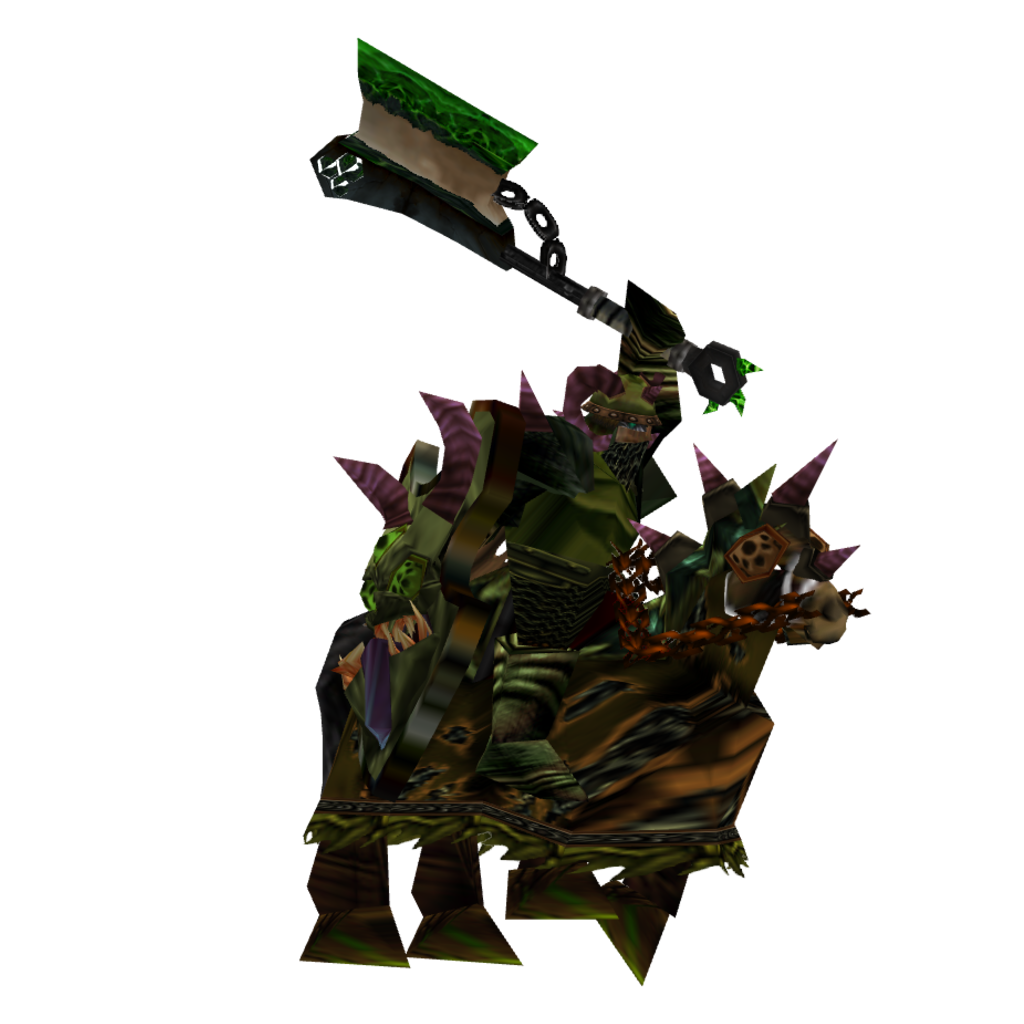
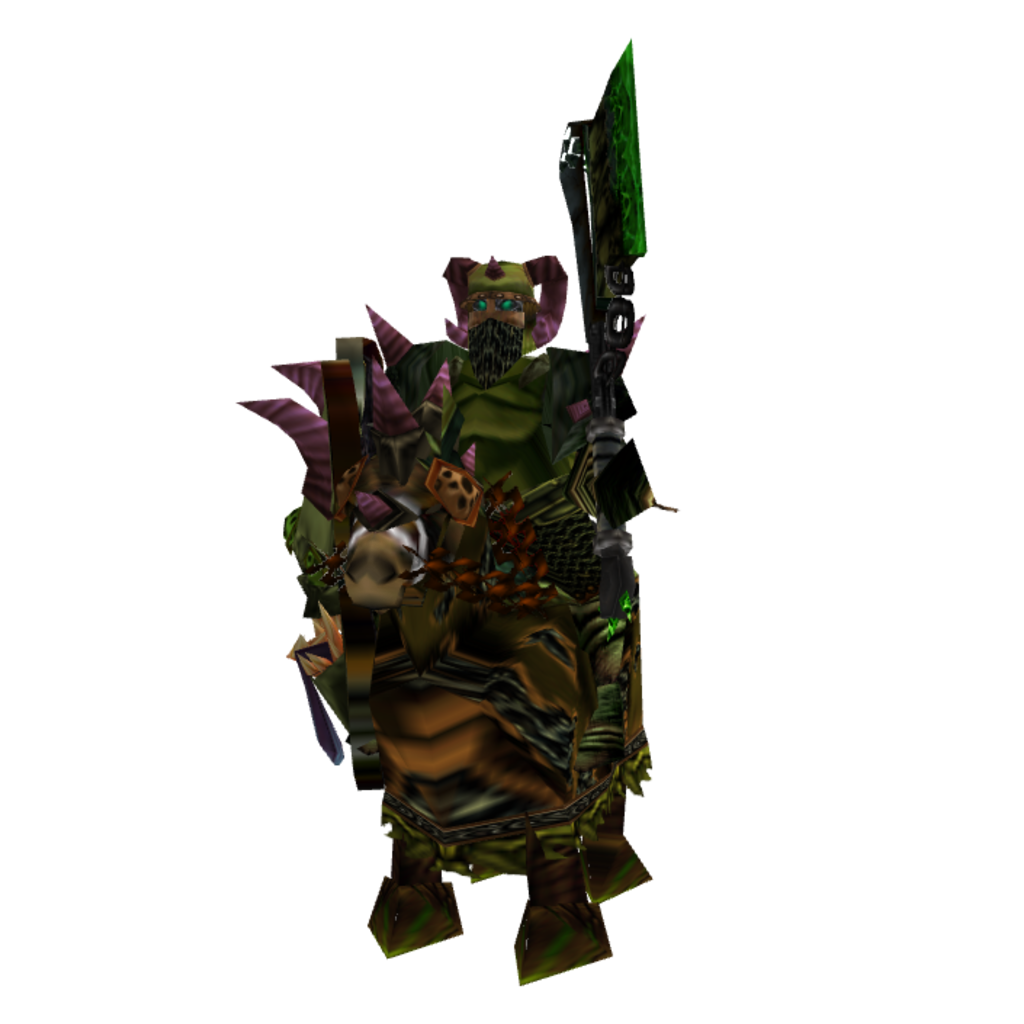
Publish Nurgle Champion with corrected axe image; leave Chaos group unchanged

Changed region(s): [[0.2188, 0.0312, 0.8438, 0.9688]]

diff --git a/model/nurgle-champion/index.html b/model/nurgle-champion/index.html
@@ -1,5 +1,5 @@
 <!doctype html>
-<html lang="en"><head><base href="/"><meta charset="utf-8"><meta name="viewport" content="width=device-width,initial-scale=1"><title>Knight of Nurgle · Champion — LowPolyWorks</title><meta name="description" content="Preview and download the Knight of Nurgle · Champion model for Warcraft 3. Add a plague-themed Warhammer Fantasy champion to your Warriors of Chaos army."><link rel="icon" type="image/png" sizes="1254x1254" href="/ui/mdlxl-icon.png"><link rel="stylesheet" href="style.css?v=20261012-connected-chains"><link rel="stylesheet" href="journal.css?v=20261010-posting-repair"><link rel="stylesheet" href="mdlxl.css?v=20261008-author-gif"><script type="importmap">{"imports":{"three":"./vendor/three.module.js","three/addons/controls/OrbitControls.js":"./vendor/OrbitControls.js"}}</script><link rel="canonical" href="https://www.lowpolyworks.com/model/nurgle-champion/">
+<html lang="en"><head><base href="/"><meta charset="utf-8"><meta name="viewport" content="width=device-width,initial-scale=1"><title>Knight of Nurgle · Champion — LowPolyWorks</title><meta name="description" content="Preview and download the Knight of Nurgle · Champion model for Warcraft 3. Add a plague-themed Warhammer Fantasy champion to your Warriors of Chaos army."><link rel="icon" type="image/png" sizes="1254x1254" href="/ui/mdlxl-icon.png"><link rel="stylesheet" href="style.css?v=20261012-chain-hover-layer"><link rel="stylesheet" href="journal.css?v=20261010-posting-repair"><link rel="stylesheet" href="mdlxl.css?v=20261008-author-gif"><script type="importmap">{"imports":{"three":"./vendor/three.module.js","three/addons/controls/OrbitControls.js":"./vendor/OrbitControls.js"}}</script><link rel="canonical" href="https://www.lowpolyworks.com/model/nurgle-champion/">
 <meta property="og:type" content="website">
 <meta property="og:site_name" content="LowPolyWorks">
 <meta property="og:title" content="Knight of Nurgle · Champion">
@@ -34,4 +34,4 @@
     <image href="ui/lowpolyworks-cleaned-source.png" width="1695" height="951" mask="url(#lowpolyworks-character-mask)"/>
   </g>
   <image class="lowpolyworks-lettering" href="ui/lowpolyworks-header-source.png" width="1695" height="951" mask="url(#lowpolyworks-type-mask)"/>
-</svg></a><nav aria-label="Main menu"><a class="project-brand mdlxl-brand" href="/mdlxl/" aria-label="MDLxL"><img class="mdlxl-brand-icon" src="ui/mdlxl-icon.png" alt="" width="48" height="48"><span class="mdlxl-wordmark" aria-hidden="true">MDL<span>x</span>L</span></a><a class="project-brand warhammercraft-brand" href="#project/warhammercraft" aria-label="WarhammerCraft"><span class="warhammercraft-wordmark" aria-hidden="true"><img src="ui/warhammercraft-header-source.png" alt="" width="1400" height="300"></span></a></nav></header><div class="site-shell"><aside class="side-menu side-left"><nav id="army-navigation" aria-label="Army navigation"></nav></aside><main id="app" aria-live="polite"><p class="loading">Loading…</p></main><aside class="side-menu side-right" id="catalogue-summary" aria-label="Catalogue information"></aside></div><footer><span>LOWPOLYWORKS</span><div><a href="#subscribe">Model notifications</a><a href="THIRD_PARTY_NOTICES.txt">Renderer credits</a></div></footer><script type="module" src="app.js?v=20261012-connected-chains"></script></body></html>
+</svg></a><nav aria-label="Main menu"><a class="project-brand mdlxl-brand" href="/mdlxl/" aria-label="MDLxL"><img class="mdlxl-brand-icon" src="ui/mdlxl-icon.png" alt="" width="48" height="48"><span class="mdlxl-wordmark" aria-hidden="true">MDL<span>x</span>L</span></a><a class="project-brand warhammercraft-brand" href="#project/warhammercraft" aria-label="WarhammerCraft"><span class="warhammercraft-wordmark" aria-hidden="true"><img src="ui/warhammercraft-header-source.png" alt="" width="1400" height="300"></span></a></nav></header><div class="site-shell"><aside class="side-menu side-left"><nav id="army-navigation" aria-label="Army navigation"></nav></aside><main id="app" aria-live="polite"><p class="loading">Loading…</p></main><aside class="side-menu side-right" id="catalogue-summary" aria-label="Catalogue information"></aside></div><footer><span>LOWPOLYWORKS</span><div><a href="#subscribe">Model notifications</a><a href="THIRD_PARTY_NOTICES.txt">Renderer credits</a></div></footer><script type="module" src="app.js?v=20261012-nurgle-fixed-unit-card"></script></body></html>

diff --git a/index.html b/index.html
@@ -19,4 +19,4 @@
     <image href="ui/lowpolyworks-cleaned-source.png" width="1695" height="951" mask="url(#lowpolyworks-character-mask)"/>
   </g>
   <image class="lowpolyworks-lettering" href="ui/lowpolyworks-header-source.png" width="1695" height="951" mask="url(#lowpolyworks-type-mask)"/>
-</svg></a><nav aria-label="Main menu"><a class="project-brand mdlxl-brand" href="/mdlxl/" aria-label="MDLxL"><img class="mdlxl-brand-icon" src="ui/mdlxl-icon.png" alt="" width="48" height="48"><span class="mdlxl-wordmark" aria-hidden="true">MDL<span>x</span>L</span></a><a class="project-brand warhammercraft-brand" href="#project/warhammercraft" aria-label="WarhammerCraft"><span class="warhammercraft-wordmark" aria-hidden="true"><img src="ui/warhammercraft-header-source.png" alt="" width="1400" height="300"></span></a></nav></header><div class="site-shell"><aside class="side-menu side-left"><nav id="army-navigation" aria-label="Army navigation"></nav></aside><main id="app" aria-live="polite"><p class="loading">Loading…</p></main><aside class="side-menu side-right" id="catalogue-summary" aria-label="Catalogue information"></aside></div><footer><span>LOWPOLYWORKS</span><div><a href="#subscribe">Model notifications</a><a href="THIRD_PARTY_NOTICES.txt">Renderer credits</a></div></footer><script type="module" src="app.js?v=20261012-nurgle-axe-composite"></script></body></html>
+</svg></a><nav aria-label="Main menu"><a class="project-brand mdlxl-brand" href="/mdlxl/" aria-label="MDLxL"><img class="mdlxl-brand-icon" src="ui/mdlxl-icon.png" alt="" width="48" height="48"><span class="mdlxl-wordmark" aria-hidden="true">MDL<span>x</span>L</span></a><a class="project-brand warhammercraft-brand" href="#project/warhammercraft" aria-label="WarhammerCraft"><span class="warhammercraft-wordmark" aria-hidden="true"><img src="ui/warhammercraft-header-source.png" alt="" width="1400" height="300"></span></a></nav></header><div class="site-shell"><aside class="side-menu side-left"><nav id="army-navigation" aria-label="Army navigation"></nav></aside><main id="app" aria-live="polite"><p class="loading">Loading…</p></main><aside class="side-menu side-right" id="catalogue-summary" aria-label="Catalogue information"></aside></div><footer><span>LOWPOLYWORKS</span><div><a href="#subscribe">Model notifications</a><a href="THIRD_PARTY_NOTICES.txt">Renderer credits</a></div></footer><script type="module" src="app.js?v=20261012-nurgle-fixed-unit-card"></script></body></html>

diff --git a/mdlxl/index.html b/mdlxl/index.html
@@ -27,4 +27,4 @@
     <image href="ui/lowpolyworks-cleaned-source.png" width="1695" height="951" mask="url(#lowpolyworks-character-mask)"/>
   </g>
   <image class="lowpolyworks-lettering" href="ui/lowpolyworks-header-source.png" width="1695" height="951" mask="url(#lowpolyworks-type-mask)"/>
-</svg></a><nav aria-label="Main menu"><a class="project-brand mdlxl-brand" href="/mdlxl/" aria-label="MDLxL"><img class="mdlxl-brand-icon" src="ui/mdlxl-icon.png" alt="" width="48" height="48"><span class="mdlxl-wordmark" aria-hidden="true">MDL<span>x</span>L</span></a><a class="project-brand warhammercraft-brand" href="#project/warhammercraft" aria-label="WarhammerCraft"><span class="warhammercraft-wordmark" aria-hidden="true"><img src="ui/warhammercraft-header-source.png" alt="" width="1400" height="300"></span></a></nav></header><div class="site-shell"><aside class="side-menu side-left"><nav id="army-navigation" aria-label="Army navigation"></nav></aside><main id="app" aria-live="polite"><p class="loading">Loading…</p></main><aside class="side-menu side-right" id="catalogue-summary" aria-label="Catalogue information"></aside></div><footer><span>LOWPOLYWORKS</span><div><a href="#subscribe">Model notifications</a><a href="THIRD_PARTY_NOTICES.txt">Renderer credits</a></div></footer><script type="module" src="app.js?v=20261012-nurgle-axe-composite"></script></body></html>
+</svg></a><nav aria-label="Main menu"><a class="project-brand mdlxl-brand" href="/mdlxl/" aria-label="MDLxL"><img class="mdlxl-brand-icon" src="ui/mdlxl-icon.png" alt="" width="48" height="48"><span class="mdlxl-wordmark" aria-hidden="true">MDL<span>x</span>L</span></a><a class="project-brand warhammercraft-brand" href="#project/warhammercraft" aria-label="WarhammerCraft"><span class="warhammercraft-wordmark" aria-hidden="true"><img src="ui/warhammercraft-header-source.png" alt="" width="1400" height="300"></span></a></nav></header><div class="site-shell"><aside class="side-menu side-left"><nav id="army-navigation" aria-label="Army navigation"></nav></aside><main id="app" aria-live="polite"><p class="loading">Loading…</p></main><aside class="side-menu side-right" id="catalogue-summary" aria-label="Catalogue information"></aside></div><footer><span>LOWPOLYWORKS</span><div><a href="#subscribe">Model notifications</a><a href="THIRD_PARTY_NOTICES.txt">Renderer credits</a></div></footer><script type="module" src="app.js?v=20261012-nurgle-fixed-unit-card"></script></body></html>

diff --git a/model/aspiring/index.html b/model/aspiring/index.html
@@ -34,4 +34,4 @@
     <image href="ui/lowpolyworks-cleaned-source.png" width="1695" height="951" mask="url(#lowpolyworks-character-mask)"/>
   </g>
   <image class="lowpolyworks-lettering" href="ui/lowpolyworks-header-source.png" width="1695" height="951" mask="url(#lowpolyworks-type-mask)"/>
-</svg></a><nav aria-label="Main menu"><a class="project-brand mdlxl-brand" href="/mdlxl/" aria-label="MDLxL"><img class="mdlxl-brand-icon" src="ui/mdlxl-icon.png" alt="" width="48" height="48"><span class="mdlxl-wordmark" aria-hidden="true">MDL<span>x</span>L</span></a><a class="project-brand warhammercraft-brand" href="#project/warhammercraft" aria-label="WarhammerCraft"><span class="warhammercraft-wordmark" aria-hidden="true"><img src="ui/warhammercraft-header-source.png" alt="" width="1400" height="300"></span></a></nav></header><div class="site-shell"><aside class="side-menu side-left"><nav id="army-navigation" aria-label="Army navigation"></nav></aside><main id="app" aria-live="polite"><p class="loading">Loading…</p></main><aside class="side-menu side-right" id="catalogue-summary" aria-label="Catalogue information"></aside></div><footer><span>LOWPOLYWORKS</span><div><a href="#subscribe">Model notifications</a><a href="THIRD_PARTY_NOTICES.txt">Renderer credits</a></div></footer><script type="module" src="app.js?v=20261012-nurgle-axe-composite"></script></body></html>
+</svg></a><nav aria-label="Main menu"><a class="project-brand mdlxl-brand" href="/mdlxl/" aria-label="MDLxL"><img class="mdlxl-brand-icon" src="ui/mdlxl-icon.png" alt="" width="48" height="48"><span class="mdlxl-wordmark" aria-hidden="true">MDL<span>x</span>L</span></a><a class="project-brand warhammercraft-brand" href="#project/warhammercraft" aria-label="WarhammerCraft"><span class="warhammercraft-wordmark" aria-hidden="true"><img src="ui/warhammercraft-header-source.png" alt="" width="1400" height="300"></span></a></nav></header><div class="site-shell"><aside class="side-menu side-left"><nav id="army-navigation" aria-label="Army navigation"></nav></aside><main id="app" aria-live="polite"><p class="loading">Loading…</p></main><aside class="side-menu side-right" id="catalogue-summary" aria-label="Catalogue information"></aside></div><footer><span>LOWPOLYWORKS</span><div><a href="#subscribe">Model notifications</a><a href="THIRD_PARTY_NOTICES.txt">Renderer credits</a></div></footer><script type="module" src="app.js?v=20261012-nurgle-fixed-unit-card"></script></body></html>

diff --git a/model/blood-dragon/index.html b/model/blood-dragon/index.html
@@ -34,4 +34,4 @@
     <image href="ui/lowpolyworks-cleaned-source.png" width="1695" height="951" mask="url(#lowpolyworks-character-mask)"/>
   </g>
   <image class="lowpolyworks-lettering" href="ui/lowpolyworks-header-source.png" width="1695" height="951" mask="url(#lowpolyworks-type-mask)"/>
-</svg></a><nav aria-label="Main menu"><a class="project-brand mdlxl-brand" href="/mdlxl/" aria-label="MDLxL"><img class="mdlxl-brand-icon" src="ui/mdlxl-icon.png" alt="" width="48" height="48"><span class="mdlxl-wordmark" aria-hidden="true">MDL<span>x</span>L</span></a><a class="project-brand warhammercraft-brand" href="#project/warhammercraft" aria-label="WarhammerCraft"><span class="warhammercraft-wordmark" aria-hidden="true"><img src="ui/warhammercraft-header-source.png" alt="" width="1400" height="300"></span></a></nav></header><div class="site-shell"><aside class="side-menu side-left"><nav id="army-navigation" aria-label="Army navigation"></nav></aside><main id="app" aria-live="polite"><p class="loading">Loading…</p></main><aside class="side-menu side-right" id="catalogue-summary" aria-label="Catalogue information"></aside></div><footer><span>LOWPOLYWORKS</span><div><a href="#subscribe">Model notifications</a><a href="THIRD_PARTY_NOTICES.txt">Renderer credits</a></div></footer><script type="module" src="app.js?v=20261012-nurgle-axe-composite"></script></body></html>
+</svg></a><nav aria-label="Main menu"><a class="project-brand mdlxl-brand" href="/mdlxl/" aria-label="MDLxL"><img class="mdlxl-brand-icon" src="ui/mdlxl-icon.png" alt="" width="48" height="48"><span class="mdlxl-wordmark" aria-hidden="true">MDL<span>x</span>L</span></a><a class="project-brand warhammercraft-brand" href="#project/warhammercraft" aria-label="WarhammerCraft"><span class="warhammercraft-wordmark" aria-hidden="true"><img src="ui/warhammercraft-header-source.png" alt="" width="1400" height="300"></span></a></nav></header><div class="site-shell"><aside class="side-menu side-left"><nav id="army-navigation" aria-label="Army navigation"></nav></aside><main id="app" aria-live="polite"><p class="loading">Loading…</p></main><aside class="side-menu side-right" id="catalogue-summary" aria-label="Catalogue information"></aside></div><footer><span>LOWPOLYWORKS</span><div><a href="#subscribe">Model notifications</a><a href="THIRD_PARTY_NOTICES.txt">Renderer credits</a></div></footer><script type="module" src="app.js?v=20261012-nurgle-fixed-unit-card"></script></body></html>

diff --git a/model/bretonnian-archer/index.html b/model/bretonnian-archer/index.html
@@ -34,4 +34,4 @@
     <image href="ui/lowpolyworks-cleaned-source.png" width="1695" height="951" mask="url(#lowpolyworks-character-mask)"/>
   </g>
   <image class="lowpolyworks-lettering" href="ui/lowpolyworks-header-source.png" width="1695" height="951" mask="url(#lowpolyworks-type-mask)"/>
-</svg></a><nav aria-label="Main menu"><a class="project-brand mdlxl-brand" href="/mdlxl/" aria-label="MDLxL"><img class="mdlxl-brand-icon" src="ui/mdlxl-icon.png" alt="" width="48" height="48"><span class="mdlxl-wordmark" aria-hidden="true">MDL<span>x</span>L</span></a><a class="project-brand warhammercraft-brand" href="#project/warhammercraft" aria-label="WarhammerCraft"><span class="warhammercraft-wordmark" aria-hidden="true"><img src="ui/warhammercraft-header-source.png" alt="" width="1400" height="300"></span></a></nav></header><div class="site-shell"><aside class="side-menu side-left"><nav id="army-navigation" aria-label="Army navigation"></nav></aside><main id="app" aria-live="polite"><p class="loading">Loading…</p></main><aside class="side-menu side-right" id="catalogue-summary" aria-label="Catalogue information"></aside></div><footer><span>LOWPOLYWORKS</span><div><a href="#subscribe">Model notifications</a><a href="THIRD_PARTY_NOTICES.txt">Renderer credits</a></div></footer><script type="module" src="app.js?v=20261012-nurgle-axe-composite"></script></body></html>
+</svg></a><nav aria-label="Main menu"><a class="project-brand mdlxl-brand" href="/mdlxl/" aria-label="MDLxL"><img class="mdlxl-brand-icon" src="ui/mdlxl-icon.png" alt="" width="48" height="48"><span class="mdlxl-wordmark" aria-hidden="true">MDL<span>x</span>L</span></a><a class="project-brand warhammercraft-brand" href="#project/warhammercraft" aria-label="WarhammerCraft"><span class="warhammercraft-wordmark" aria-hidden="true"><img src="ui/warhammercraft-header-source.png" alt="" width="1400" height="300"></span></a></nav></header><div class="site-shell"><aside class="side-menu side-left"><nav id="army-navigation" aria-label="Army navigation"></nav></aside><main id="app" aria-live="polite"><p class="loading">Loading…</p></main><aside class="side-menu side-right" id="catalogue-summary" aria-label="Catalogue information"></aside></div><footer><span>LOWPOLYWORKS</span><div><a href="#subscribe">Model notifications</a><a href="THIRD_PARTY_NOTICES.txt">Renderer credits</a></div></footer><script type="module" src="app.js?v=20261012-nurgle-fixed-unit-card"></script></body></html>

diff --git a/model/bretonnian-pikeman/index.html b/model/bretonnian-pikeman/index.html
@@ -34,4 +34,4 @@
     <image href="ui/lowpolyworks-cleaned-source.png" width="1695" height="951" mask="url(#lowpolyworks-character-mask)"/>
   </g>
   <image class="lowpolyworks-lettering" href="ui/lowpolyworks-header-source.png" width="1695" height="951" mask="url(#lowpolyworks-type-mask)"/>
-</svg></a><nav aria-label="Main menu"><a class="project-brand mdlxl-brand" href="/mdlxl/" aria-label="MDLxL"><img class="mdlxl-brand-icon" src="ui/mdlxl-icon.png" alt="" width="48" height="48"><span class="mdlxl-wordmark" aria-hidden="true">MDL<span>x</span>L</span></a><a class="project-brand warhammercraft-brand" href="#project/warhammercraft" aria-label="WarhammerCraft"><span class="warhammercraft-wordmark" aria-hidden="true"><img src="ui/warhammercraft-header-source.png" alt="" width="1400" height="300"></span></a></nav></header><div class="site-shell"><aside class="side-menu side-left"><nav id="army-navigation" aria-label="Army navigation"></nav></aside><main id="app" aria-live="polite"><p class="loading">Loading…</p></main><aside class="side-menu side-right" id="catalogue-summary" aria-label="Catalogue information"></aside></div><footer><span>LOWPOLYWORKS</span><div><a href="#subscribe">Model notifications</a><a href="THIRD_PARTY_NOTICES.txt">Renderer credits</a></div></footer><script type="module" src="app.js?v=20261012-nurgle-axe-composite"></script></body></html>
+</svg></a><nav aria-label="Main menu"><a class="project-brand mdlxl-brand" href="/mdlxl/" aria-label="MDLxL"><img class="mdlxl-brand-icon" src="ui/mdlxl-icon.png" alt="" width="48" height="48"><span class="mdlxl-wordmark" aria-hidden="true">MDL<span>x</span>L</span></a><a class="project-brand warhammercraft-brand" href="#project/warhammercraft" aria-label="WarhammerCraft"><span class="warhammercraft-wordmark" aria-hidden="true"><img src="ui/warhammercraft-header-source.png" alt="" width="1400" height="300"></span></a></nav></header><div class="site-shell"><aside class="side-menu side-left"><nav id="army-navigation" aria-label="Army navigation"></nav></aside><main id="app" aria-live="polite"><p class="loading">Loading…</p></main><aside class="side-menu side-right" id="catalogue-summary" aria-label="Catalogue information"></aside></div><footer><span>LOWPOLYWORKS</span><div><a href="#subscribe">Model notifications</a><a href="THIRD_PARTY_NOTICES.txt">Renderer credits</a></div></footer><script type="module" src="app.js?v=20261012-nurgle-fixed-unit-card"></script></body></html>

diff --git a/model/bretonnian-swordsman/index.html b/model/bretonnian-swordsman/index.html
@@ -34,4 +34,4 @@
     <image href="ui/lowpolyworks-cleaned-source.png" width="1695" height="951" mask="url(#lowpolyworks-character-mask)"/>
   </g>
   <image class="lowpolyworks-lettering" href="ui/lowpolyworks-header-source.png" width="1695" height="951" mask="url(#lowpolyworks-type-mask)"/>
-</svg></a><nav aria-label="Main menu"><a class="project-brand mdlxl-brand" href="/mdlxl/" aria-label="MDLxL"><img class="mdlxl-brand-icon" src="ui/mdlxl-icon.png" alt="" width="48" height="48"><span class="mdlxl-wordmark" aria-hidden="true">MDL<span>x</span>L</span></a><a class="project-brand warhammercraft-brand" href="#project/warhammercraft" aria-label="WarhammerCraft"><span class="warhammercraft-wordmark" aria-hidden="true"><img src="ui/warhammercraft-header-source.png" alt="" width="1400" height="300"></span></a></nav></header><div class="site-shell"><aside class="side-menu side-left"><nav id="army-navigation" aria-label="Army navigation"></nav></aside><main id="app" aria-live="polite"><p class="loading">Loading…</p></main><aside class="side-menu side-right" id="catalogue-summary" aria-label="Catalogue information"></aside></div><footer><span>LOWPOLYWORKS</span><div><a href="#subscribe">Model notifications</a><a href="THIRD_PARTY_NOTICES.txt">Renderer credits</a></div></footer><script type="module" src="app.js?v=20261012-nurgle-axe-composite"></script></body></html>
+</svg></a><nav aria-label="Main menu"><a class="project-brand mdlxl-brand" href="/mdlxl/" aria-label="MDLxL"><img class="mdlxl-brand-icon" src="ui/mdlxl-icon.png" alt="" width="48" height="48"><span class="mdlxl-wordmark" aria-hidden="true">MDL<span>x</span>L</span></a><a class="project-brand warhammercraft-brand" href="#project/warhammercraft" aria-label="WarhammerCraft"><span class="warhammercraft-wordmark" aria-hidden="true"><img src="ui/warhammercraft-header-source.png" alt="" width="1400" height="300"></span></a></nav></header><div class="site-shell"><aside class="side-menu side-left"><nav id="army-navigation" aria-label="Army navigation"></nav></aside><main id="app" aria-live="polite"><p class="loading">Loading…</p></main><aside class="side-menu side-right" id="catalogue-summary" aria-label="Catalogue information"></aside></div><footer><span>LOWPOLYWORKS</span><div><a href="#subscribe">Model notifications</a><a href="THIRD_PARTY_NOTICES.txt">Renderer credits</a></div></footer><script type="module" src="app.js?v=20261012-nurgle-fixed-unit-card"></script></body></html>

diff --git a/model/chaos-ogre/index.html b/model/chaos-ogre/index.html
@@ -34,4 +34,4 @@
     <image href="ui/lowpolyworks-cleaned-source.png" width="1695" height="951" mask="url(#lowpolyworks-character-mask)"/>
   </g>
   <image class="lowpolyworks-lettering" href="ui/lowpolyworks-header-source.png" width="1695" height="951" mask="url(#lowpolyworks-type-mask)"/>
-</svg></a><nav aria-label="Main menu"><a class="project-brand mdlxl-brand" href="/mdlxl/" aria-label="MDLxL"><img class="mdlxl-brand-icon" src="ui/mdlxl-icon.png" alt="" width="48" height="48"><span class="mdlxl-wordmark" aria-hidden="true">MDL<span>x</span>L</span></a><a class="project-brand warhammercraft-brand" href="#project/warhammercraft" aria-label="WarhammerCraft"><span class="warhammercraft-wordmark" aria-hidden="true"><img src="ui/warhammercraft-header-source.png" alt="" width="1400" height="300"></span></a></nav></header><div class="site-shell"><aside class="side-menu side-left"><nav id="army-navigation" aria-label="Army navigation"></nav></aside><main id="app" aria-live="polite"><p class="loading">Loading…</p></main><aside class="side-menu side-right" id="catalogue-summary" aria-label="Catalogue information"></aside></div><footer><span>LOWPOLYWORKS</span><div><a href="#subscribe">Model notifications</a><a href="THIRD_PARTY_NOTICES.txt">Renderer credits</a></div></footer><script type="module" src="app.js?v=20261012-nurgle-axe-composite"></script></body></html>
+</svg></a><nav aria-label="Main menu"><a class="project-brand mdlxl-brand" href="/mdlxl/" aria-label="MDLxL"><img class="mdlxl-brand-icon" src="ui/mdlxl-icon.png" alt="" width="48" height="48"><span class="mdlxl-wordmark" aria-hidden="true">MDL<span>x</span>L</span></a><a class="project-brand warhammercraft-brand" href="#project/warhammercraft" aria-label="WarhammerCraft"><span class="warhammercraft-wordmark" aria-hidden="true"><img src="ui/warhammercraft-header-source.png" alt="" width="1400" height="300"></span></a></nav></header><div class="site-shell"><aside class="side-menu side-left"><nav id="army-navigation" aria-label="Army navigation"></nav></aside><main id="app" aria-live="polite"><p class="loading">Loading…</p></main><aside class="side-menu side-right" id="catalogue-summary" aria-label="Catalogue information"></aside></div><footer><span>LOWPOLYWORKS</span><div><a href="#subscribe">Model notifications</a><a href="THIRD_PARTY_NOTICES.txt">Renderer credits</a></div></footer><script type="module" src="app.js?v=20261012-nurgle-fixed-unit-card"></script></body></html>

diff --git a/model/elector-count/index.html b/model/elector-count/index.html
@@ -34,4 +34,4 @@
     <image href="ui/lowpolyworks-cleaned-source.png" width="1695" height="951" mask="url(#lowpolyworks-character-mask)"/>
   </g>
   <image class="lowpolyworks-lettering" href="ui/lowpolyworks-header-source.png" width="1695" height="951" mask="url(#lowpolyworks-type-mask)"/>
-</svg></a><nav aria-label="Main menu"><a class="project-brand mdlxl-brand" href="/mdlxl/" aria-label="MDLxL"><img class="mdlxl-brand-icon" src="ui/mdlxl-icon.png" alt="" width="48" height="48"><span class="mdlxl-wordmark" aria-hidden="true">MDL<span>x</span>L</span></a><a class="project-brand warhammercraft-brand" href="#project/warhammercraft" aria-label="WarhammerCraft"><span class="warhammercraft-wordmark" aria-hidden="true"><img src="ui/warhammercraft-header-source.png" alt="" width="1400" height="300"></span></a></nav></header><div class="site-shell"><aside class="side-menu side-left"><nav id="army-navigation" aria-label="Army navigation"></nav></aside><main id="app" aria-live="polite"><p class="loading">Loading…</p></main><aside class="side-menu side-right" id="catalogue-summary" aria-label="Catalogue information"></aside></div><footer><span>LOWPOLYWORKS</span><div><a href="#subscribe">Model notifications</a><a href="THIRD_PARTY_NOTICES.txt">Renderer credits</a></div></footer><script type="module" src="app.js?v=20261012-nurgle-axe-composite"></script></body></html>
+</svg></a><nav aria-label="Main menu"><a class="project-brand mdlxl-brand" href="/mdlxl/" aria-label="MDLxL"><img class="mdlxl-brand-icon" src="ui/mdlxl-icon.png" alt="" width="48" height="48"><span class="mdlxl-wordmark" aria-hidden="true">MDL<span>x</span>L</span></a><a class="project-brand warhammercraft-brand" href="#project/warhammercraft" aria-label="WarhammerCraft"><span class="warhammercraft-wordmark" aria-hidden="true"><img src="ui/warhammercraft-header-source.png" alt="" width="1400" height="300"></span></a></nav></header><div class="site-shell"><aside class="side-menu side-left"><nav id="army-navigation" aria-label="Army navigation"></nav></aside><main id="app" aria-live="polite"><p class="loading">Loading…</p></main><aside class="side-menu side-right" id="catalogue-summary" aria-label="Catalogue information"></aside></div><footer><span>LOWPOLYWORKS</span><div><a href="#subscribe">Model notifications</a><a href="THIRD_PARTY_NOTICES.txt">Renderer credits</a></div></footer><script type="module" src="app.js?v=20261012-nurgle-fixed-unit-card"></script></body></html>

diff --git a/model/elite-steam-tank/index.html b/model/elite-steam-tank/index.html
@@ -34,4 +34,4 @@
     <image href="ui/lowpolyworks-cleaned-source.png" width="1695" height="951" mask="url(#lowpolyworks-character-mask)"/>
   </g>
   <image class="lowpolyworks-lettering" href="ui/lowpolyworks-header-source.png" width="1695" height="951" mask="url(#lowpolyworks-type-mask)"/>
-</svg></a><nav aria-label="Main menu"><a class="project-brand mdlxl-brand" href="/mdlxl/" aria-label="MDLxL"><img class="mdlxl-brand-icon" src="ui/mdlxl-icon.png" alt="" width="48" height="48"><span class="mdlxl-wordmark" aria-hidden="true">MDL<span>x</span>L</span></a><a class="project-brand warhammercraft-brand" href="#project/warhammercraft" aria-label="WarhammerCraft"><span class="warhammercraft-wordmark" aria-hidden="true"><img src="ui/warhammercraft-header-source.png" alt="" width="1400" height="300"></span></a></nav></header><div class="site-shell"><aside class="side-menu side-left"><nav id="army-navigation" aria-label="Army navigation"></nav></aside><main id="app" aria-live="polite"><p class="loading">Loading…</p></main><aside class="side-menu side-right" id="catalogue-summary" aria-label="Catalogue information"></aside></div><footer><span>LOWPOLYWORKS</span><div><a href="#subscribe">Model notifications</a><a href="THIRD_PARTY_NOTICES.txt">Renderer credits</a></div></footer><script type="module" src="app.js?v=20261012-nurgle-axe-composite"></script></body></html>
+</svg></a><nav aria-label="Main menu"><a class="project-brand mdlxl-brand" href="/mdlxl/" aria-label="MDLxL"><img class="mdlxl-brand-icon" src="ui/mdlxl-icon.png" alt="" width="48" height="48"><span class="mdlxl-wordmark" aria-hidden="true">MDL<span>x</span>L</span></a><a class="project-brand warhammercraft-brand" href="#project/warhammercraft" aria-label="WarhammerCraft"><span class="warhammercraft-wordmark" aria-hidden="true"><img src="ui/warhammercraft-header-source.png" alt="" width="1400" height="300"></span></a></nav></header><div class="site-shell"><aside class="side-menu side-left"><nav id="army-navigation" aria-label="Army navigation"></nav></aside><main id="app" aria-live="polite"><p class="loading">Loading…</p></main><aside class="side-menu side-right" id="catalogue-summary" aria-label="Catalogue information"></aside></div><footer><span>LOWPOLYWORKS</span><div><a href="#subscribe">Model notifications</a><a href="THIRD_PARTY_NOTICES.txt">Renderer credits</a></div></footer><script type="module" src="app.js?v=20261012-nurgle-fixed-unit-card"></script></body></html>

diff --git a/model/empire-captain/index.html b/model/empire-captain/index.html
@@ -34,4 +34,4 @@
     <image href="ui/lowpolyworks-cleaned-source.png" width="1695" height="951" mask="url(#lowpolyworks-character-mask)"/>
   </g>
   <image class="lowpolyworks-lettering" href="ui/lowpolyworks-header-source.png" width="1695" height="951" mask="url(#lowpolyworks-type-mask)"/>
-</svg></a><nav aria-label="Main menu"><a class="project-brand mdlxl-brand" href="/mdlxl/" aria-label="MDLxL"><img class="mdlxl-brand-icon" src="ui/mdlxl-icon.png" alt="" width="48" height="48"><span class="mdlxl-wordmark" aria-hidden="true">MDL<span>x</span>L</span></a><a class="project-brand warhammercraft-brand" href="#project/warhammercraft" aria-label="WarhammerCraft"><span class="warhammercraft-wordmark" aria-hidden="true"><img src="ui/warhammercraft-header-source.png" alt="" width="1400" height="300"></span></a></nav></header><div class="site-shell"><aside class="side-menu side-left"><nav id="army-navigation" aria-label="Army navigation"></nav></aside><main id="app" aria-live="polite"><p class="loading">Loading…</p></main><aside class="side-menu side-right" id="catalogue-summary" aria-label="Catalogue information"></aside></div><footer><span>LOWPOLYWORKS</span><div><a href="#subscribe">Model notifications</a><a href="THIRD_PARTY_NOTICES.txt">Renderer credits</a></div></footer><script type="module" src="app.js?v=20261012-nurgle-axe-composite"></script></body></html>
+</svg></a><nav aria-label="Main menu"><a class="project-brand mdlxl-brand" href="/mdlxl/" aria-label="MDLxL"><img class="mdlxl-brand-icon" src="ui/mdlxl-icon.png" alt="" width="48" height="48"><span class="mdlxl-wordmark" aria-hidden="true">MDL<span>x</span>L</span></a><a class="project-brand warhammercraft-brand" href="#project/warhammercraft" aria-label="WarhammerCraft"><span class="warhammercraft-wordmark" aria-hidden="true"><img src="ui/warhammercraft-header-source.png" alt="" width="1400" height="300"></span></a></nav></header><div class="site-shell"><aside class="side-menu side-left"><nav id="army-navigation" aria-label="Army navigation"></nav></aside><main id="app" aria-live="polite"><p class="loading">Loading…</p></main><aside class="side-menu side-right" id="catalogue-summary" aria-label="Catalogue information"></aside></div><footer><span>LOWPOLYWORKS</span><div><a href="#subscribe">Model notifications</a><a href="THIRD_PARTY_NOTICES.txt">Renderer credits</a></div></footer><script type="module" src="app.js?v=20261012-nurgle-fixed-unit-card"></script></body></html>
